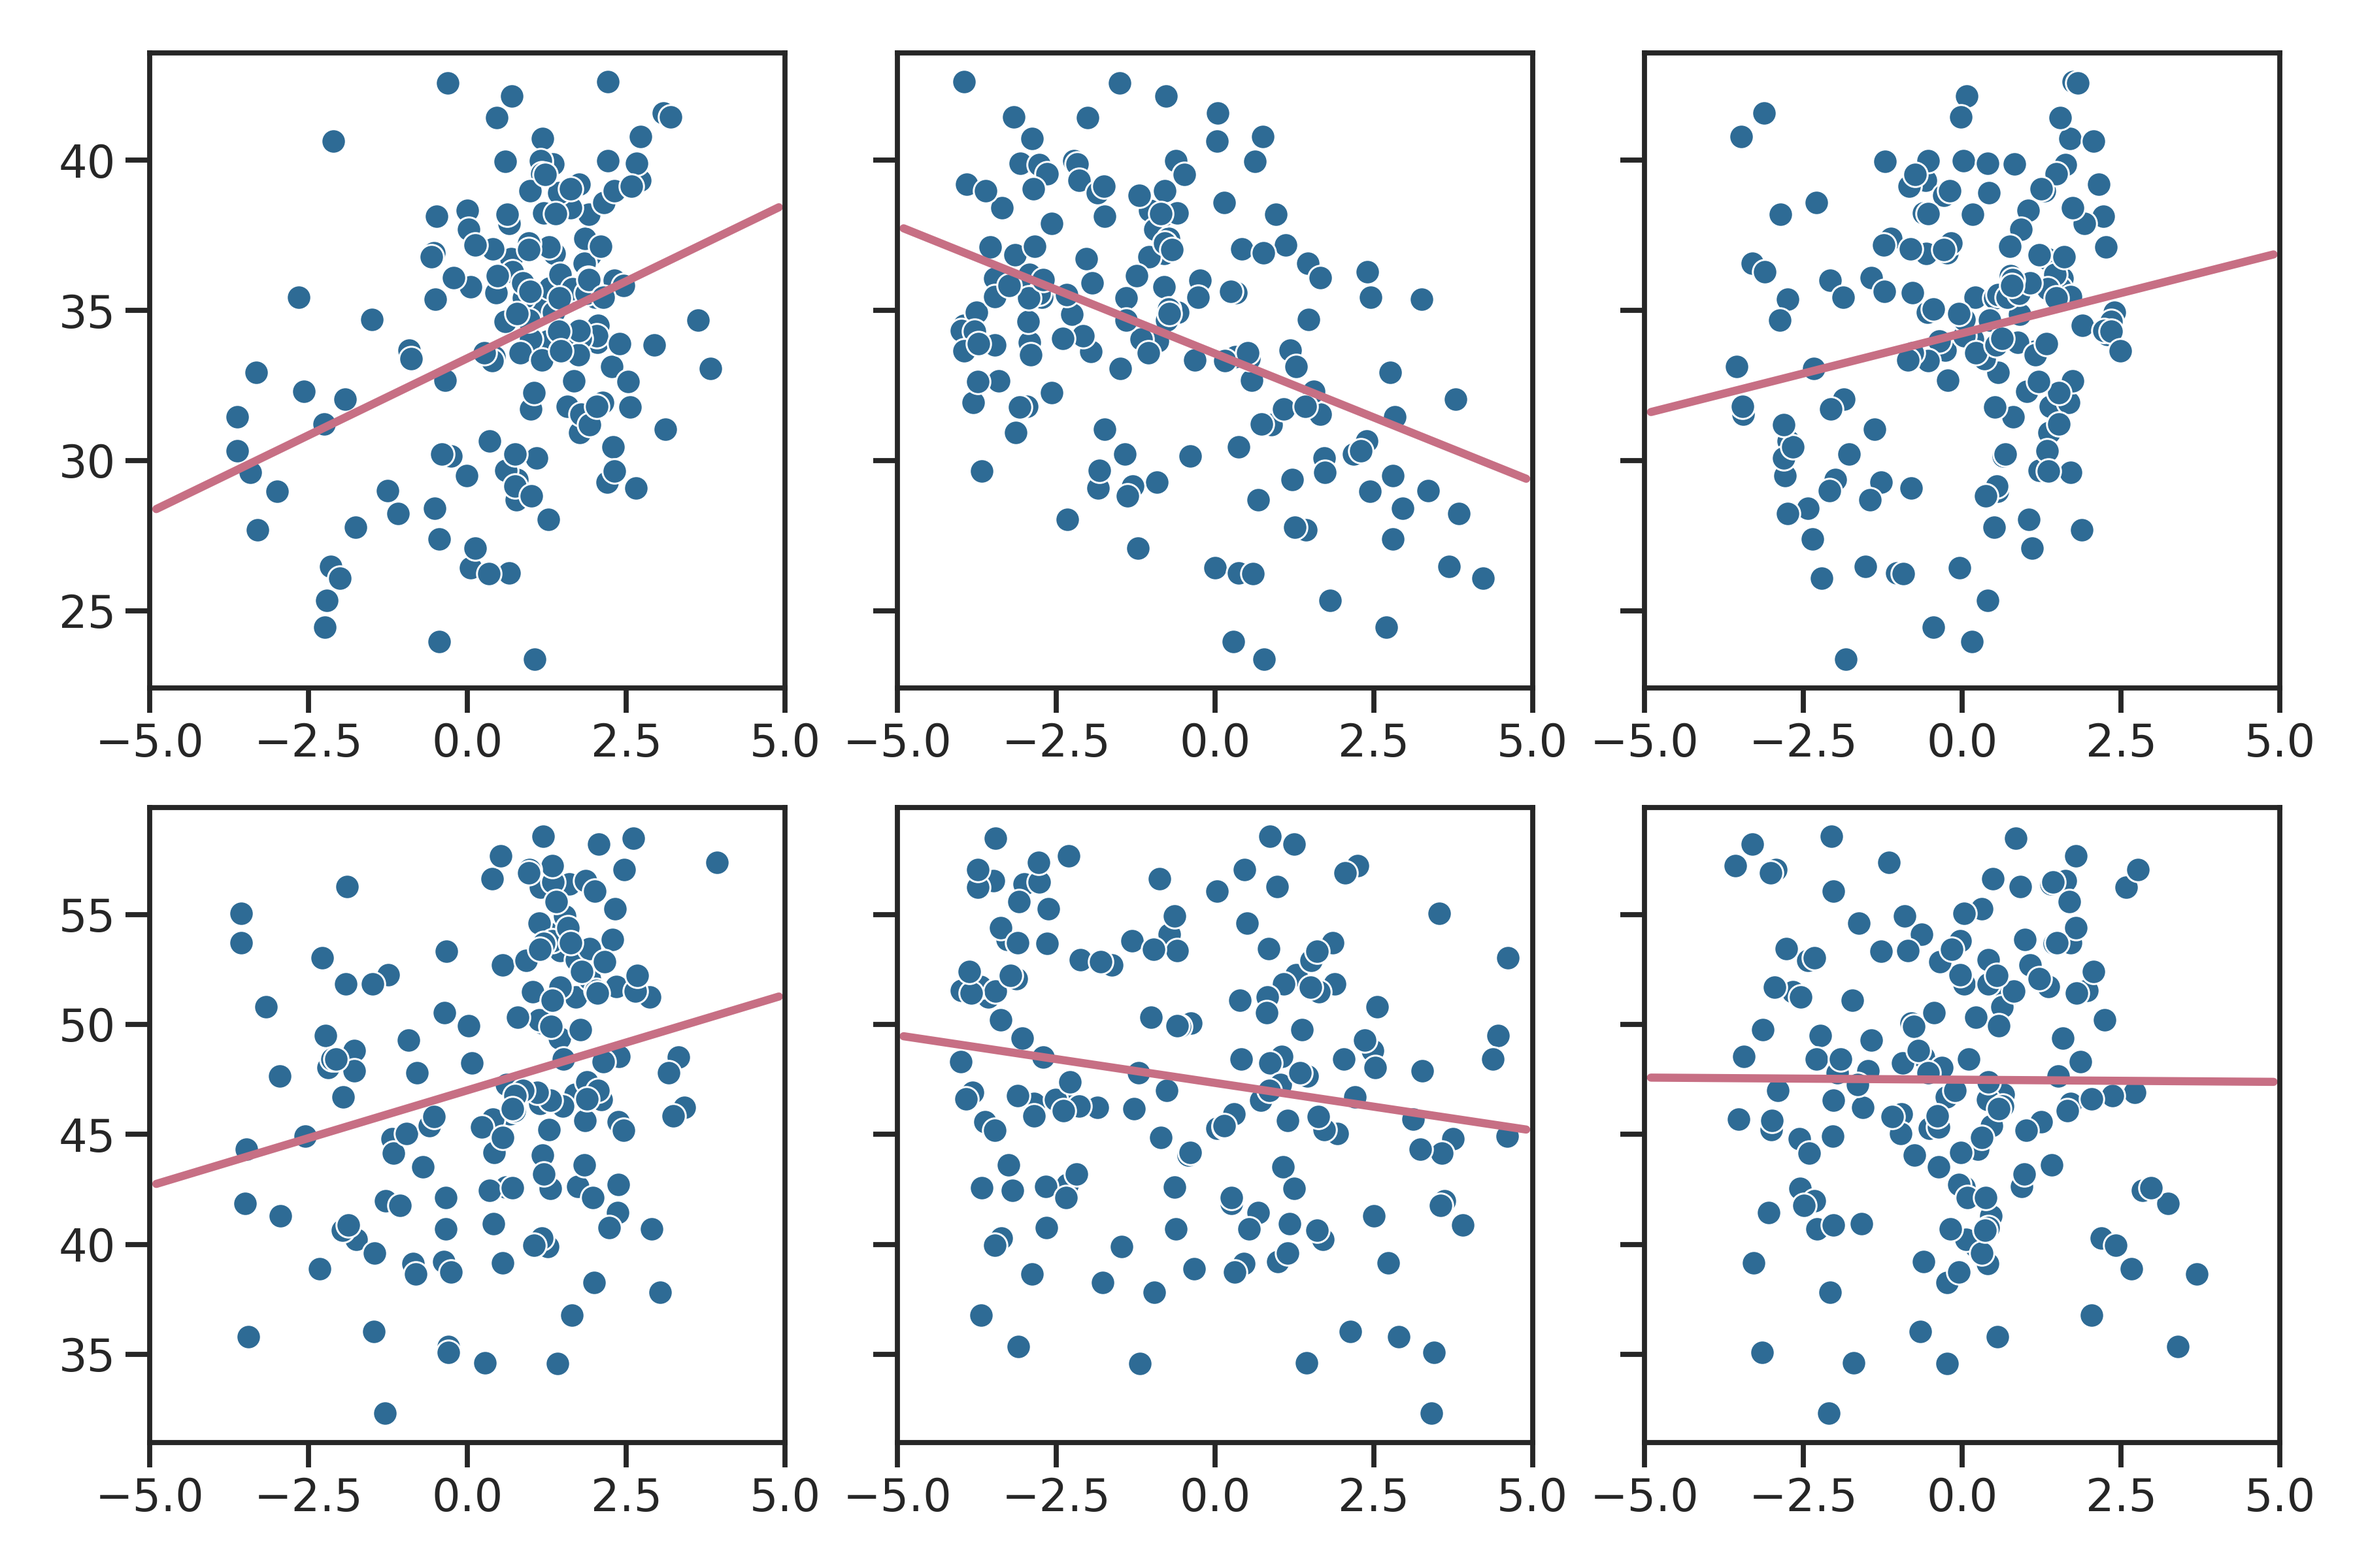
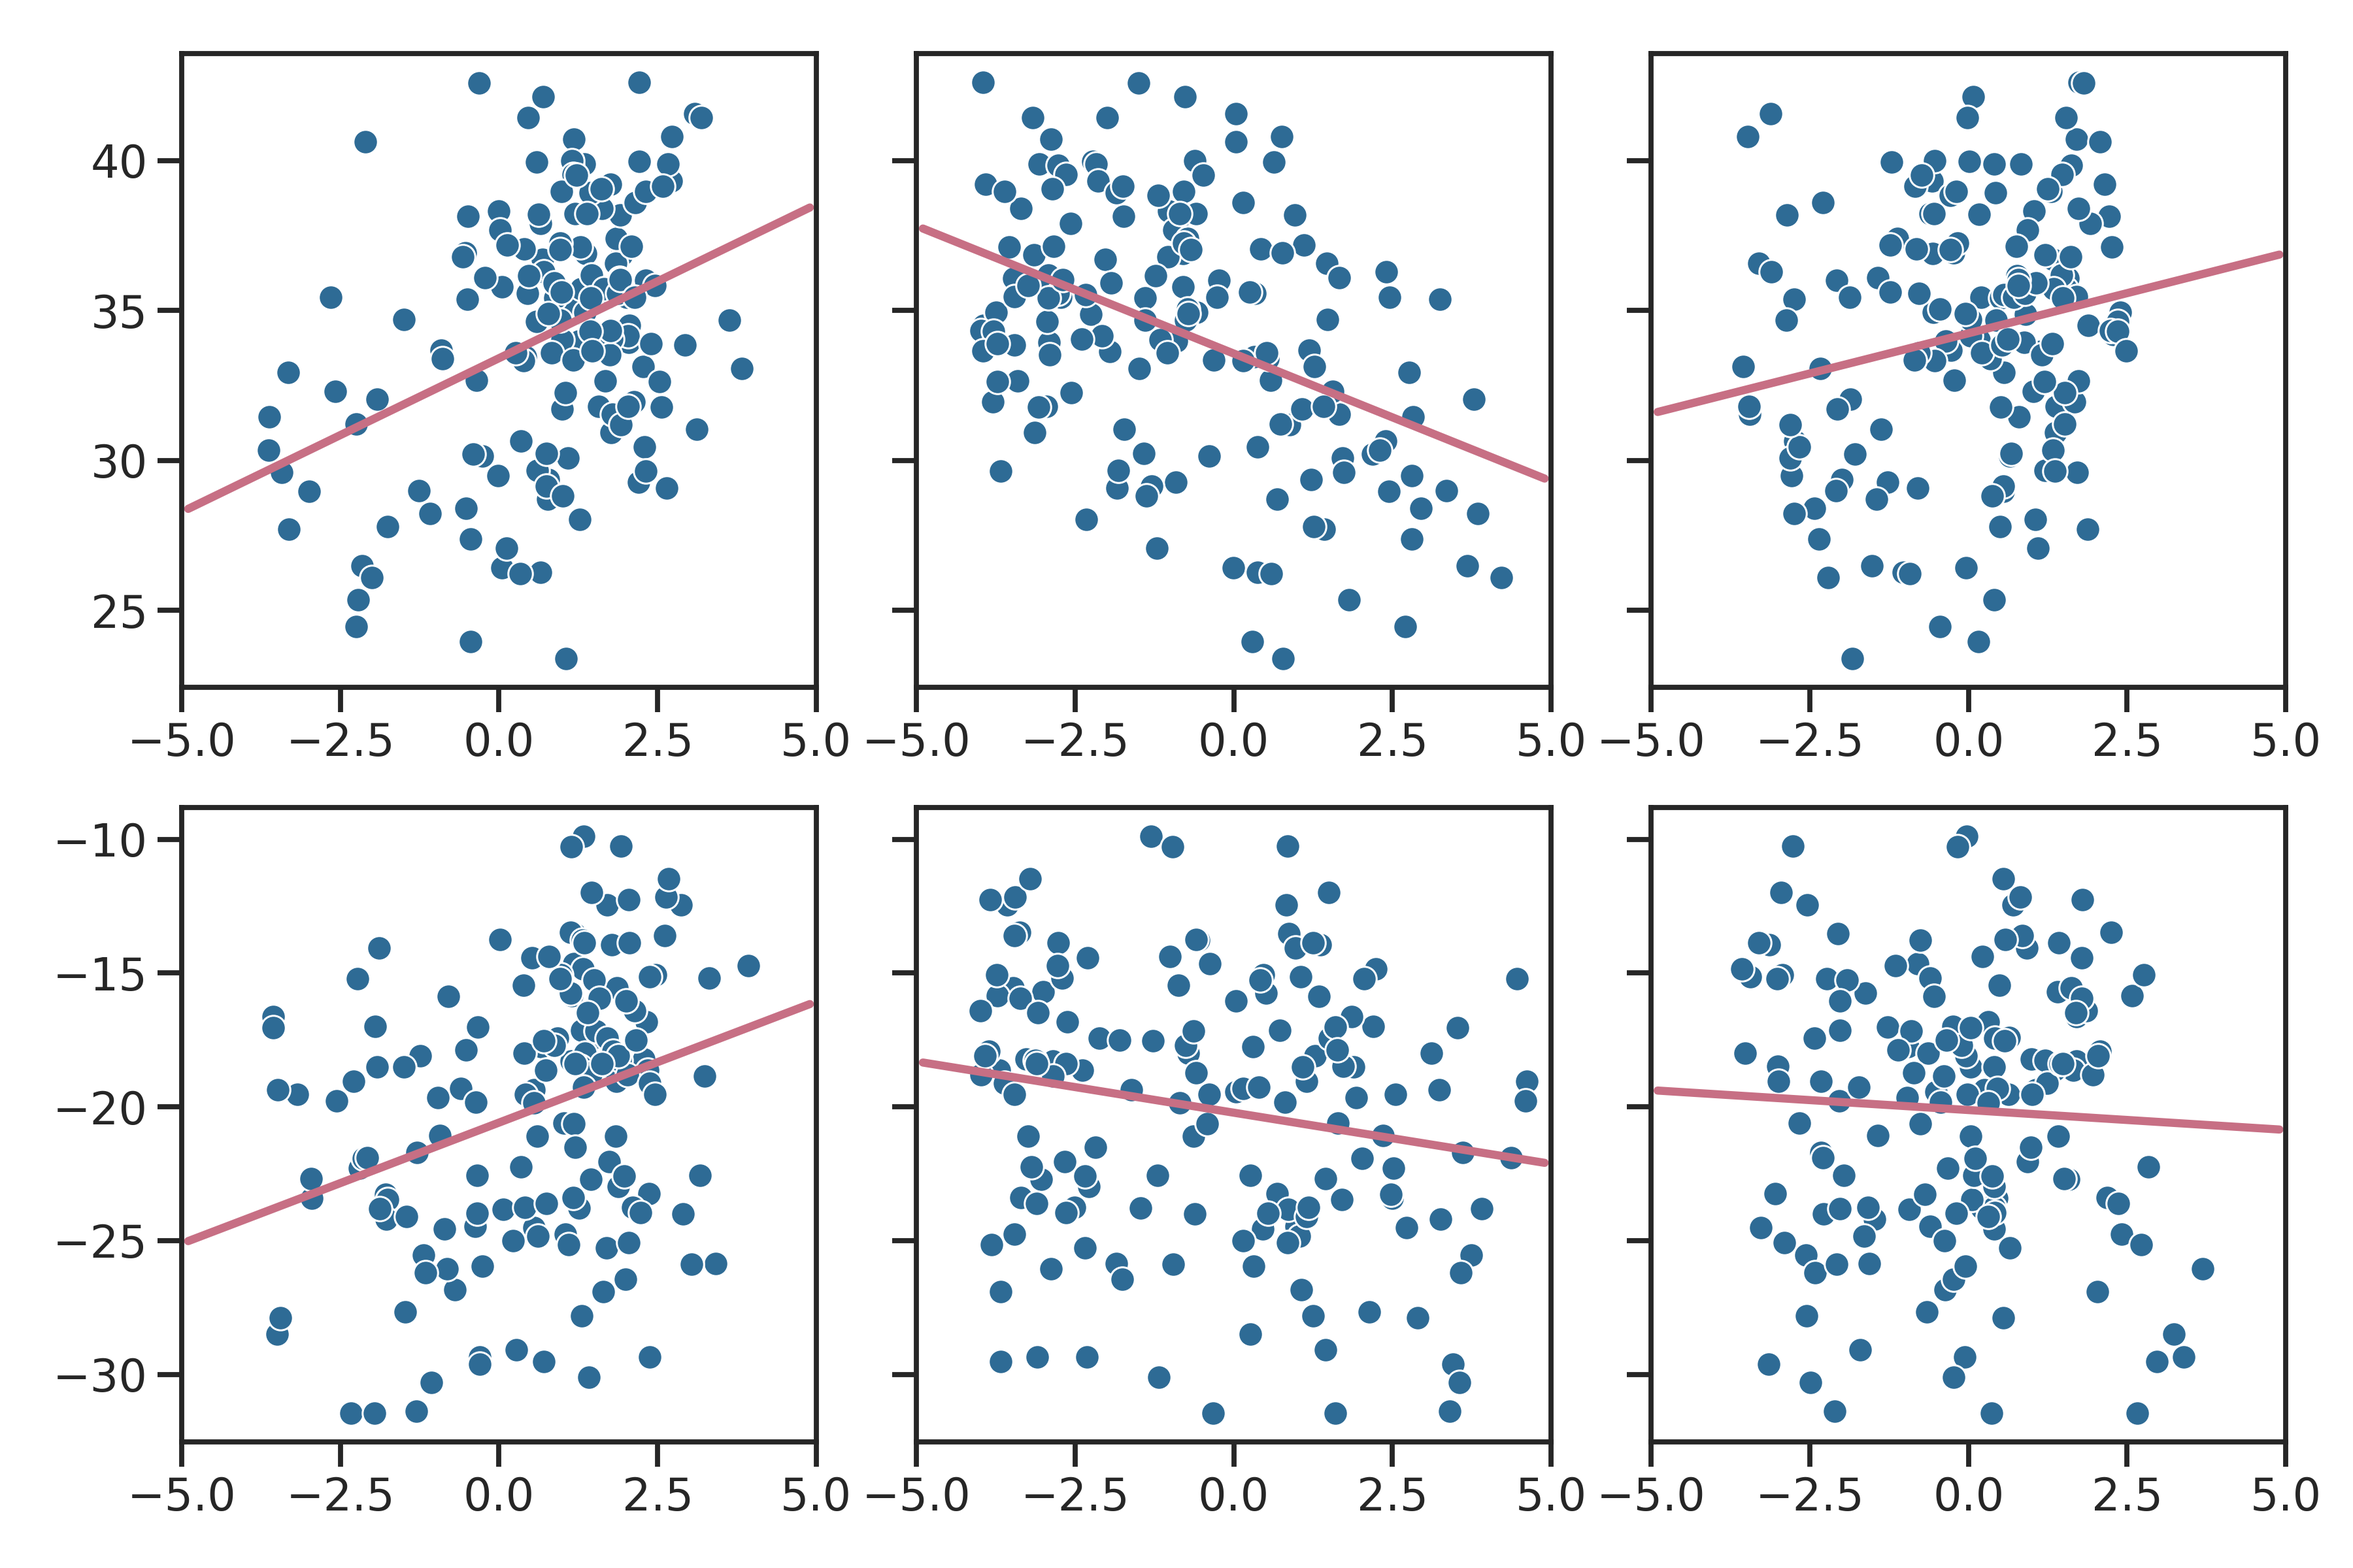
add fig1

diff --git a/m3_visualize.py b/m3_visualize.py
@@ -124,6 +124,7 @@ def Policy_Rew():
     data = build_pivot_table('map', min_q=.01, max_q=.99)
     data['is_PAT'] = data['group'].apply(lambda x: x!='HC')
     data['rew'] = data['rew'].apply(lambda x: x*100)
+    data['rawRew'] = data['rawRew'].apply(lambda x: x*100)
     xmin, xmax = -4.9, 4.9 
     #data[tar].min().min()-.1, data[tar].max().max()+.1
 
@@ -132,11 +133,11 @@ def Policy_Rew():
 
     for i, lamb in enumerate(tar):
         for j, feedback_type in enumerate(['gain', 'loss']):
-
+            #
             sel_data = data.query(f'feedback_type=="{feedback_type}"').groupby(
                             by=['sub_id', 'b_type']).mean().reset_index()
             x = sel_data[lamb]
-            y = sel_data['rew']
+            y = sel_data['rawRew']
             corr, pval = pearsonr(x.values, y.values)
             x = sm.add_constant(x)
             res = sm.OLS(y, x).fit()
@@ -146,7 +147,7 @@ def Policy_Rew():
 
             ax  = axs[j, i]
             x = np.linspace(xmin, xmax, 100)
-            sns.scatterplot(x=lamb, y='rew', data=sel_data, 
+            sns.scatterplot(x=lamb, y='rawRew', data=sel_data, 
                                 color=viz.Blue, ax=ax)
             sns.lineplot(x=x, y=regress(x), color=viz.Red, lw=3, ax=ax)
             ax.set_ylabel('')
@@ -233,4 +234,4 @@ if __name__ == '__main__':
     #viz_PiReward()
     #HC_PAT_policy()
     Policy_Rew()
-    pred_biFactor()
+    #pred_biFactor()

diff --git a/utils/analyze.py b/utils/analyze.py
@@ -55,7 +55,7 @@ def model_cmp(quant_crs):
                 {p[0]}:{np.mean(x):.3f}, {p[1]}:{np.mean(y):.3f}
                 t={res[0]:.3f} p={res[1]:.3f}''')
 
-def get_pivot(gain_data, loss_data, features=['rew', 'match', 'anx_lvl', 'dep_lvl', 'alpha', 'l1', 'l2', 'l3']):
+def get_pivot(gain_data, loss_data, features=['rew', 'rawRew', 'match', 'anx_lvl', 'dep_lvl', 'alpha', 'l1', 'l2', 'l3']):
     ## get the gin and loss data 
     gain_data_PAT = gain_data.query('group!="HC"')
     gain_data_HC  = gain_data.query('group=="HC"')
@@ -104,7 +104,7 @@ def build_pivot_table(method, min_q=.01, max_q=.99):
     loss_data = pd.read_csv(f'{path}/../simulations/{agent}/sim-loss_exp1data-{method}-idx0-default.csv')
     sub_syndrome = pd.read_csv(f'{path}/../data/bifactor.csv')
     sub_syndrome = sub_syndrome.rename(columns={'Unnamed: 0': 'sub_id', 'F1.': 'f1', 'F2.':'f2'})
-    pivot_tables = get_pivot(gain_data, loss_data, features=['rew', 'match', 'alpha']+tar_tail)
+    pivot_tables = get_pivot(gain_data, loss_data, features=['rawRew', 'rew', 'match', 'alpha']+tar_tail)
 
     datainfo(pivot_tables)
 

diff --git a/m0_preprocess.py b/m0_preprocess.py
@@ -68,6 +68,10 @@ def remake_cols_idx(data, sub_id, feedback_type, exp_id, seed=42):
                         *(x["humanAct"]==x["state"])
                      -min(x[f'mag0'], x['mag1']), axis=1)
     
+    data['rawRew'] = data.apply(
+            lambda x: x[f'mag{int(x["humanAct"])}']
+                        *(x["humanAct"]==x["state"]), axis=1)
+    
     ## Add which experiment id 
     data['exp_id'] = exp_id
 
